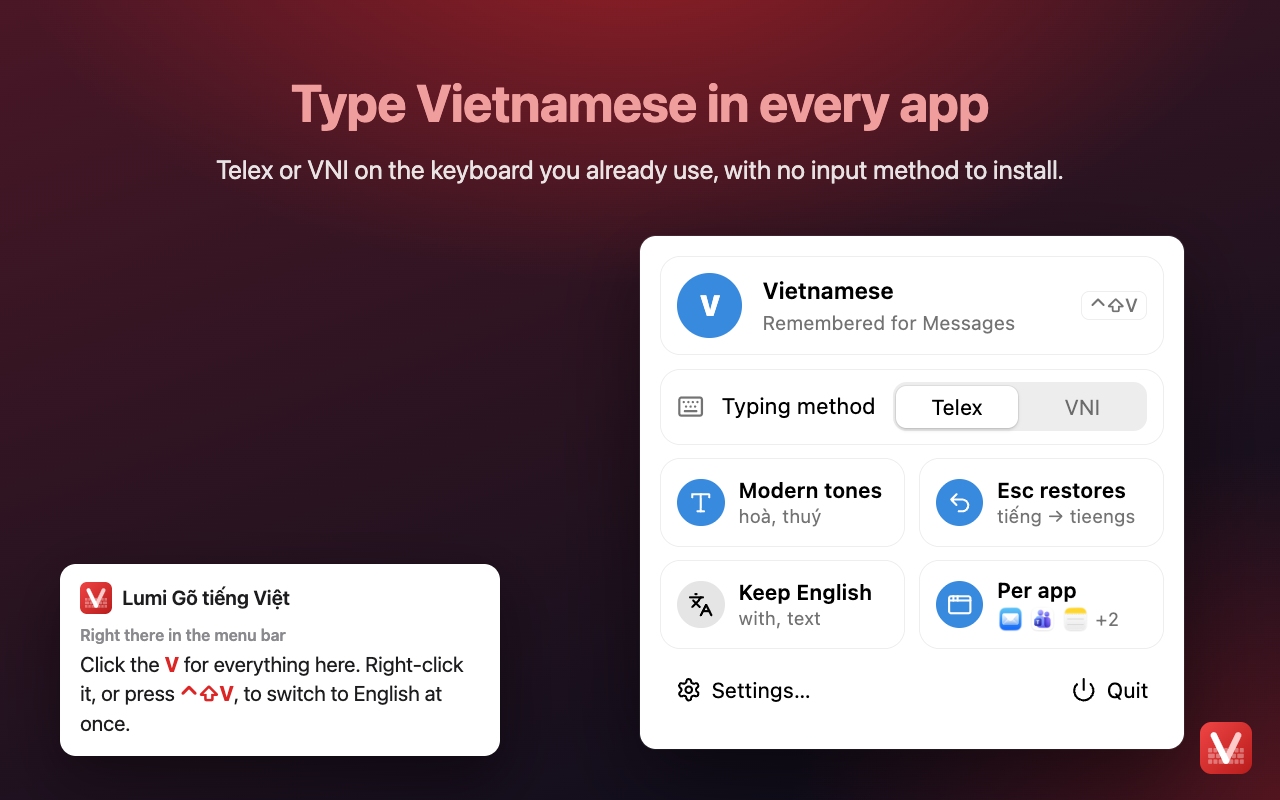
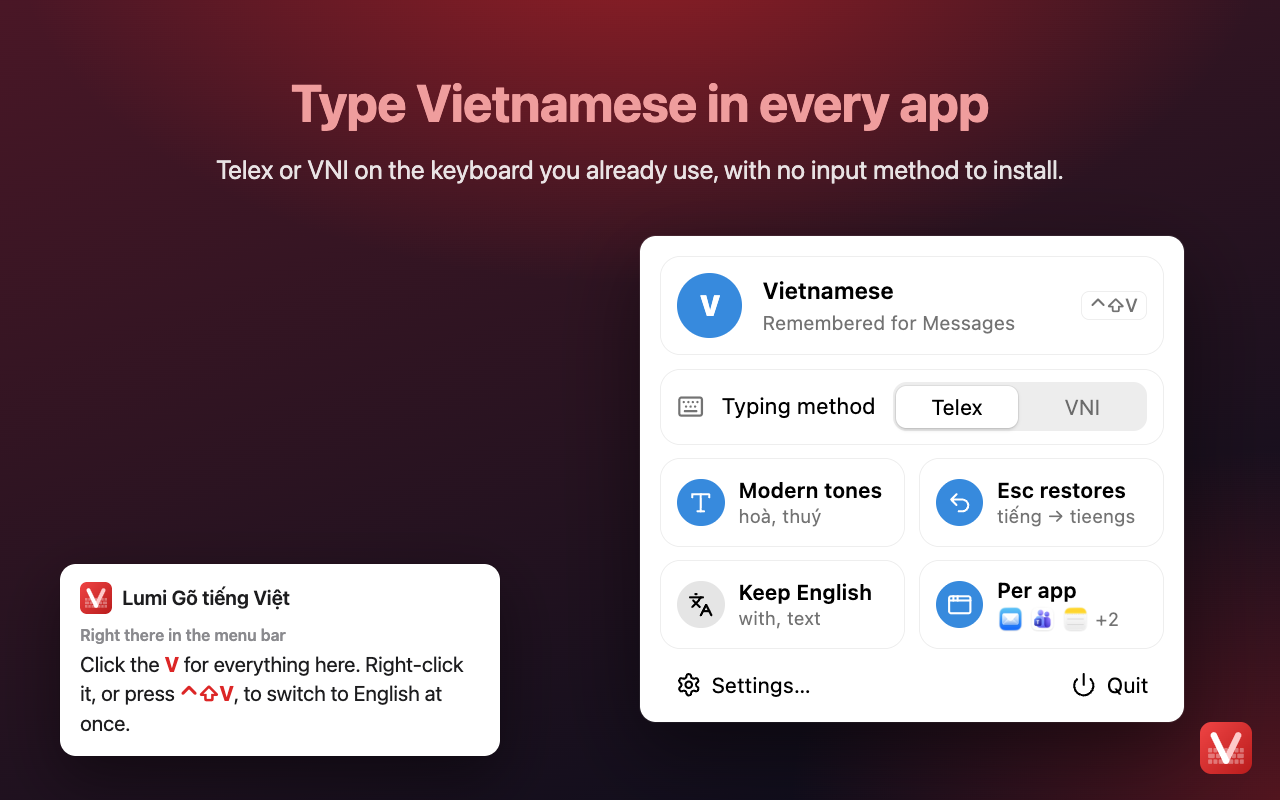
fix(store): Gõ tiếng Việt's popover footer sits 12 points from each side
Settings… and Quit stood 15 points under the tiles and 17 over the panel's
edge — the footer's margin, its buttons' padding (the room their hover
takes) and the panel's own padding added up — where every other edge of
the popover is 12. The footer's margin and the panel's bottom padding are 7
now, so with the buttons' 5 the footer's words are 12 points from the tiles
and 12 from the edge, measured in the page. The popover is 8 points
shorter; its page tells Lumi its size as before.

The store's first two pictures are taken again at the new height.

Changed region(s): [[0.5, 0.8438, 0.9375, 0.9375]]

diff --git a/ext/dev.thiennguyen.vietnamese/ui/popover.css b/ext/dev.thiennguyen.vietnamese/ui/popover.css
@@ -33,8 +33,12 @@
 }
 
 html, body { margin: 0; background: transparent; overflow: hidden; }
+/* 12 points from every edge to what is drawn: the tiles at the sides and
+   top, the footer's words at the bottom — its buttons' own 5 points of
+   padding, the room their hover takes, are part of that 12, so the panel's
+   own padding gives the rest. */
 .pop {
-  box-sizing: border-box; width: 320px; padding: 12px;
+  box-sizing: border-box; width: 320px; padding: 12px 12px 7px;
   user-select: none; -webkit-user-select: none; cursor: default;
 }
 /* Every control here draws itself; under `:where()`, as lumi.css's rules
@@ -99,8 +103,9 @@ kbd {
 .apps .none { min-width: 0; white-space: nowrap; overflow: hidden; text-overflow: ellipsis; }
 .apps .said { position: absolute; width: 1px; height: 1px; overflow: hidden; clip-path: inset(50%); white-space: nowrap; }
 
-/* Settings… and Quit. */
-.bar { display: flex; justify-content: space-between; margin-top: 10px; }
+/* Settings… and Quit, 12 points under the tiles to their words, as the
+   words are 12 points over the panel's edge. */
+.bar { display: flex; justify-content: space-between; margin-top: 7px; }
 .bar button { display: flex; align-items: center; gap: 6px; padding: 5px 9px; border-radius: 7px; font-size: 12.5px; }
 .bar button:hover { background: var(--tile-up); }
 .bar svg { width: 15px; height: 15px; }
